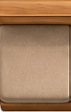
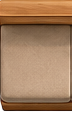
33e

diff --git a/src/test/floor-plan.test.ts b/src/test/floor-plan.test.ts
@@ -207,10 +207,10 @@ describe("floor plan helpers", () => {
     expect(fiveSeatCorner.cornerBenchConfigs[0].vertical).toBeGreaterThan(twoSeatCorner.cornerBenchConfigs[0].vertical);
   });
 
-  it("renders added corner bench seats flush with the corner image at the same height", () => {
+  it("renders corner bench seats below the table image with the same height as the corner", () => {
     const markup = renderToStaticMarkup(createElement(DynamicTableSvg, {
       shape: "rect",
-      capacity: 3,
+      capacity: 4,
       seatType: "corner-bench",
       seatPlacements: [],
       cornerBenchConfigs: [{
@@ -219,22 +219,30 @@ describe("floor plan helpers", () => {
         vertical: 86,
         depth: 56,
         horizontalSeats: 2,
-        verticalSeats: 1,
+        verticalSeats: 2,
       }],
     }));
     const images = getRenderedImageAttributes(markup);
     const tableIndex = images.findIndex((image) => image.href.includes("plan-de-salle_0014_Calque-12.png"));
     const cornerIndex = images.findIndex((image) => image.href.includes("plan-de-salle_0009_Calque-10.png"));
-    const horizontalSeatIndex = images.findIndex((image) => image.href.includes("plan-de-salle_0010_Calque-11.png"));
+    const straightSeatIndices = images
+      .map((image, index) => image.href.includes("plan-de-salle_0010_Calque-11.png") ? index : -1)
+      .filter((index) => index >= 0);
+    const straightSeatImages = images.filter((image) => image.href.includes("plan-de-salle_0010_Calque-11.png"));
+    const horizontalSeatImage = straightSeatImages[0];
     const cornerImage = images[cornerIndex];
-    const horizontalSeatImage = images[horizontalSeatIndex];
 
     expect(tableIndex).toBeGreaterThanOrEqual(0);
-    expect(cornerIndex).toBeGreaterThan(tableIndex);
-    expect(horizontalSeatIndex).toBeGreaterThan(cornerIndex);
+    expect(cornerIndex).toBeGreaterThanOrEqual(0);
+    expect(cornerIndex).toBeLessThan(tableIndex);
     expect(cornerImage.href).toContain("plan-de-salle_0009_Calque-10.png");
-    expect(horizontalSeatImage.href).toContain("plan-de-salle_0010_Calque-11.png");
-    expect(horizontalSeatImage.height).toBe(cornerImage.height);
+    expect(straightSeatImages).toHaveLength(2);
+    straightSeatIndices.forEach((straightSeatIndex) => {
+      expect(straightSeatIndex).toBeLessThan(tableIndex);
+    });
+    straightSeatImages.forEach((straightSeatImage) => {
+      expect(straightSeatImage.height).toBe(cornerImage.height);
+    });
     expect(horizontalSeatImage.y).toBe(cornerImage.y);
     expect((horizontalSeatImage.x || 0) + (horizontalSeatImage.width || 0)).toBeCloseTo(cornerImage.x || 0, 5);
   });

diff --git a/src/components/floor-plan/DynamicTableSvg.tsx b/src/components/floor-plan/DynamicTableSvg.tsx
@@ -547,14 +547,6 @@ function DynamicRectTable({ resolved }: { resolved: FloorPlanResolvedDimensions 
         ));
       })}
 
-      <SvgAsset
-        assetId="rect-table-top"
-        x={tableRect.x}
-        y={tableRect.y}
-        width={tableRect.w}
-        height={tableRect.h}
-      />
-
       {resolved.cornerBenchConfigs.map((config) => (
         <CornerBenchShape
           key={config.corner}
@@ -568,6 +560,14 @@ function DynamicRectTable({ resolved }: { resolved: FloorPlanResolvedDimensions 
           scale={scale}
         />
       ))}
+
+      <SvgAsset
+        assetId="rect-table-top"
+        x={tableRect.x}
+        y={tableRect.y}
+        width={tableRect.w}
+        height={tableRect.h}
+      />
     </>
   );
 }
